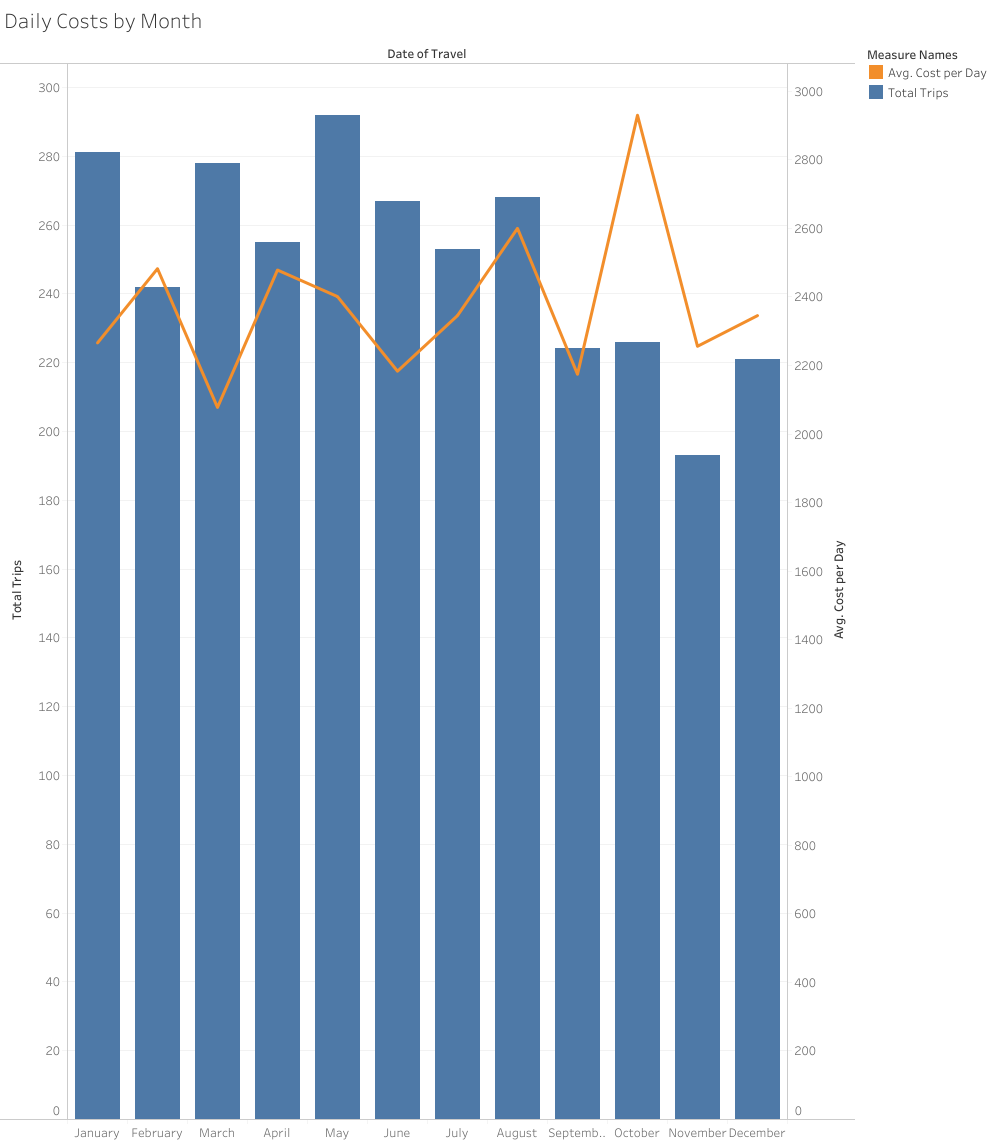
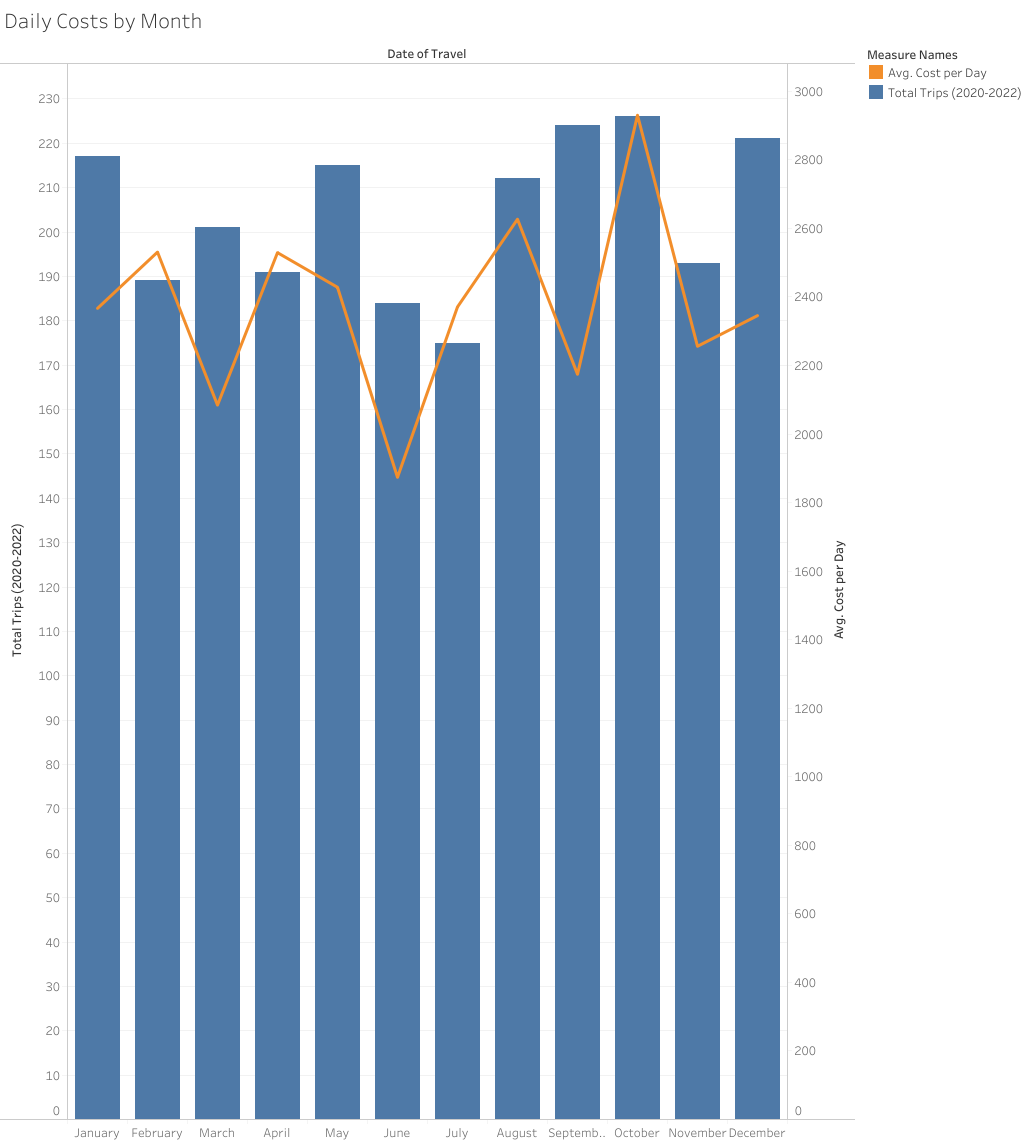
corrected graph and README info

diff --git a/README.md b/README.md
@@ -32,6 +32,7 @@ Project focused on analyzing Greek tourism insights
 
 Greek tourism data from Kaggle
 - 3,000 rows, 13 columns
+- Date range January 2020 - August 2023
 - Mix of authentic and synthetic data.
 Data source did not specify a currency in the documentation
 - We assumed cost in Euros
@@ -48,14 +49,16 @@ Cost column varies wildly
 
 
 Most Affordable:
+June
 March
 September
-June
 
 Smallest Crowds:
-November
-December
-September
+July
+June
+February
+
+Best Overall: June
 
 - Exploring the dataset and finding limitations due to synthetic data. Graphs showing data distribution.
 
@@ -78,6 +81,6 @@ Accuracy of the model with 2,000 iterations was the strongest, at 79%
 
 ## Conclusion
 
-- Best month to travel: September.
+- Best month to travel: June.
 - Dataset was not very conducive to accurate machine learning models.
 - May be due to inclusion of synthetic data.
